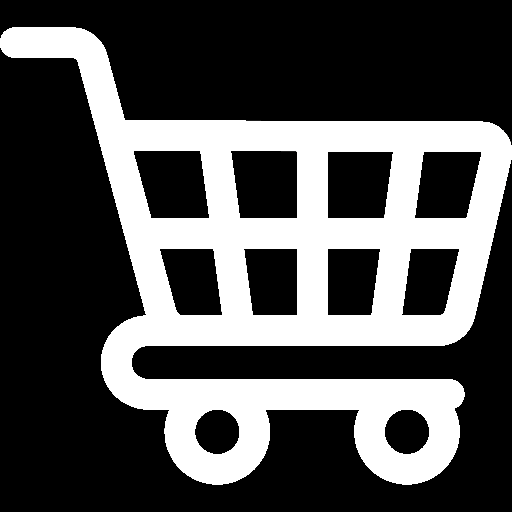
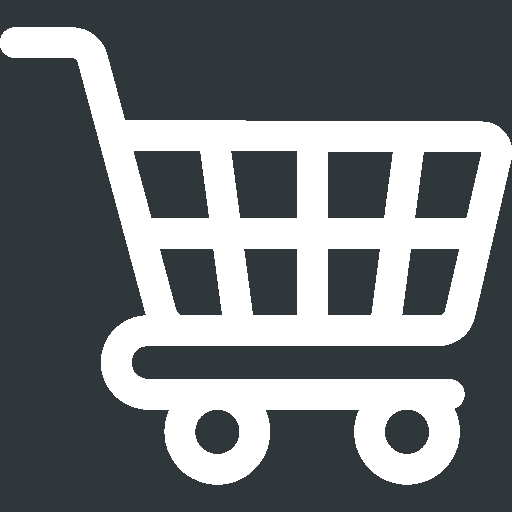
index terminado

diff --git a/cli/Unidad 8/ProyectoReactJGF/src/assets/App.css b/cli/Unidad 8/ProyectoReactJGF/src/assets/App.css
@@ -1,32 +1,37 @@
-@import url('https://fonts.googleapis.com/css2?family=Anta&display=swap');
+@import url('https://fonts.googleapis.com/css2?family=Poppins:ital,wght@0,100;0,200;0,300;0,400;0,500;0,600;0,700;0,800;0,900;1,100;1,200;1,300;1,400;1,500;1,600;1,700;1,800;1,900&display=swap');
 
 * {
-  font-family: "Anta", sans-serif;
+  font-family: 'Poppins';
   font-weight: 400;
   font-style: normal;
 }
 
 header {
   width: 100%;
-  background-color: black;
+  background-color: #2f373a;
 }
 
 header nav {
-  color: #efb810;
   font-size: 1.25rem;
   height: 5rem;
   display: flex;
   align-items: center;
 }
 
+header nav h2 {
+  font-weight: 700;
+  font-style: italic;
+}
+
 .logo {
   margin: 0 auto 0 1.563rem;
-  width: 5rem;
+  width: 20rem;
   padding: 0;
 }
 
 .logo img {
   width: 5rem;
+  margin-right: 1rem;
 }
 
 .carrito {
@@ -41,28 +46,38 @@ header nav {
 }
 
 .carrito img:hover{
-  background: linear-gradient(90deg, red, orange, yellow, green, blue, purple);
-  transition: 0.5s ease-in-out;
+  background-color: #4ce97d;
+  transition: 0.25s ease-in-out;
 }
 
 header nav a {
   height: 100%;
   width: 11rem;
   font-size: 1.25rem;
-  font-weight: 400;
+  font-weight: 700;
   text-decoration: none;
   color: white;
-  background: linear-gradient(90deg, red, orange, yellow, green, blue, purple);
-  background-clip: text;
-  -webkit-background-clip: text;
   display: flex;
   align-items: center;
   justify-content: center;
 }
 
-header nav a:hover {
-  color: transparent;
-  transition: 500ms ease;
+.azul:hover {
+  color: black;
+  background-color: #45e0fd;
+  transition: 0.5s ease;
+}
+
+.rojo:hover {
+  color: black;
+  background-color: #fc5769;
+  transition: 0.5s ease;
+}
+
+.amarillo:hover {
+  color: black;
+  background-color: #fed154;
+  transition: 0.5s ease;
 }
 
 .activo {
@@ -79,7 +94,7 @@ header nav a:hover {
 
 body {
   margin: 0;
-  background-color: #000000;
+  background-color: #2f373a;
   background-size: cover;
   background-repeat: no-repeat;
   background-attachment: fixed;
@@ -91,60 +106,92 @@ main {
   display: flex;
   flex-direction: column;
   margin: 0;
+  align-items: center;
+  background-color: #ffffff;
 }
 
-main div {
-  height: auto/* 47.5rem */;
-  background: linear-gradient(180deg, black, grey);
-  color: white;
+.cuerpo {
+  height: auto;
+  display: flex;
+  justify-content: center;
+  align-items: center;
 }
 
-main div h2 {
-  text-align: center;
-}
 
-main .banner {
+.banner {
   height: 100%;
-  background: linear-gradient(0deg, blue, purple);
-  color: white;
-  padding: 4rem;
+  width: 100%;
+  background-color: #fcb4bc;
+  color: black;
   display: flex;
   flex-direction: column;
   align-items: center;
 }
 
+.banner h1{
+  padding: 1rem 0 0 0;
+}
+
+.banner h3{
+  padding: 0 0 1rem 0;
+}
+
+.titulo {
+  width: 80%;
+  height: 100%;
+  color: black;
+  background-color: #faf0fe;
+  display: flexbox;
+  justify-content: center;
+  align-items: center;
+  margin: 3rem 0 3rem 0;
+  padding: 0 0 3rem 0;
+}
+
+.titulo h2 {
+  width: 100%;
+  padding: 1rem;
+  text-align: center;
+}
+
 .juegos {
-  background: transparent;
   display: flex;
   justify-content: center;
   align-items: center;
   height: auto;
+  margin: auto;
+  width: auto;
 }
 
 .producto {
   height: auto;
-  border: 0.128rem solid #ccc;
-  border-radius: 0.75rem;
   overflow: hidden;
-  width: 18.75rem;
-  margin: 2rem;
-  color: white;
+  margin: 1rem;
+  width: 12rem;
+  display: flex;
+  justify-content: center;
+  align-items: center;
+  flex-direction: column;
+  padding: 1rem 0 1rem 0;
+  transition: 0.1s ease-in-out;
 }
 
 .producto img {
-  width: 100%;
-  display: flex;
+  width: 80%;
+  margin: 0.5rem 0 0 0;
 }
 
 .producto .contenido {
-  padding: 0.625rem;
+  width: 100%;
   height: auto;
+  display: flex;
+  flex-direction: column;
+  align-items: center;
 }
 
 .producto h2 {
-  text-align: left;
-  margin-top: 0;
-  margin-bottom: 0.313rem;
+  padding: 0;
+  text-align: center;
 }
 
 .producto p {
@@ -152,31 +199,36 @@ main .banner {
 }
 
 .producto button {
-  color: white;
+  opacity: 0;
+  position: absolute;
   border: 0;
-  width: 100%;
+  width: 11rem;
   font-size: 1.25rem;
+  font-weight: 600;
   height: 3rem;
-  background-size: 300% 400%;
-  transition: all .4s ease-in-out;
-
-  background-image: linear-gradient(180deg, purple,     blue, cyan, pink);
+  background-color: #dc9cfb;
+  transition: .15s ease-in-out;
+  box-shadow: 0px 4px 8px rgba(0, 0, 0, 0.5);
+  border-radius: 0.5rem;
+  cursor: pointer;
 }
 
-.producto button:hover {
-  color: black;
-  background-position: 0% 100%;
-  transition: all .4s ease-in-out;
+.producto:hover {
+  background-color: #eed3fc;
 }
 
-.producto .precio {
-  font-weight: bold;
-  text-align: right;
+.producto:hover button {
+  opacity: 1;
+}
+
+button:hover {
+  box-shadow: 0px 4px 8px rgba(0, 0, 0, 1);
+  background-color: #faf0fe;
 }
 
 footer {
   width: 100%;
-  background-color: black;
+  background-color: #2f373a;
   min-height: 5rem;
   display: flex;
   justify-content: center;
@@ -192,19 +244,18 @@ footer ul, a {
   font-weight: 400;
   line-height: 1.2;
   color: white;
-  background: linear-gradient(90deg, red, orange, yellow, green, blue, purple);
-  background-clip: text;
   display: inline-block;
   list-style: none;
+  text-decoration: none;
 }
 
 footer ul li:first-child {
+  color: white;
   font-size: 0.9375rem;
-  font-weight: 100;
+  font-weight: 400;
   text-align: left;
 }
 
 footer ul a:hover {
-  color: transparent;
-  transition: 500ms ease;
+  transition: 0.5s ease;
 }

diff --git a/cli/Unidad 8/ProyectoReactJGF/src/components/Body.jsx b/cli/Unidad 8/ProyectoReactJGF/src/components/Body.jsx
@@ -1,4 +1,5 @@
 import juego1 from '../assets/juego1.jpg'
+import juego2 from '../assets/juego2.jpg'
 import '../assets/App.css'
 
 function Body() {
@@ -10,33 +11,46 @@ function Body() {
           <h1>¡Bienvenido a MemoGames!</h1>
           <h3>Tu tienda de videojuegos favorita</h3>
         </div>
-        <div>
+        <div className='titulo'>
           <h2>Algunos de nuestros juegos mas vendidos: </h2>
           <div className='juegos'>
             <div class="producto">
-              <img src={juego1} alt="Nombre del Producto"/>
+              <img src={juego1} alt="Jak&Daxter"/>
                 <div className="contenido">
-                  <h2>Jak & Daxter</h2>
-                  <p>Embarcate en una increible aventura con este dúo icónico de Playstation</p>
-                  <p className="precio">20.99€</p>
+                  <h3>Jak & Daxter</h3>
+                  <p className="precio">Desde tan solo <span>9.99€</span></p>
                 </div>
               <button>Añadir al carrito</button>
             </div>
             <div class="producto">
-              <img src={juego1} alt="Nombre del Producto"/>
+              <img src={juego2} alt="Project Zomboid"/>
                 <div className="contenido">
-                  <h2>Jak & Daxter</h2>
-                  <p>Embarcate en una increible aventura con este dúo icónico de Playstation</p>
-                  <p className="precio">20.99€</p>
+                  <h3>Project Zomboid</h3>
+                  <p className="precio">Desde tan solo <span>10.99€</span></p>
                 </div>
-                  <button>Añadir al carrito</button>
+                <button>Añadir al carrito</button>
             </div>
             <div class="producto">
               <img src={juego1} alt="Nombre del Producto"/>
                 <div className="contenido">
-                  <h2>Jak & Daxter</h2>
-                  <p>Embarcate en una increible aventura con este dúo icónico de Playstation</p>
-                  <p className="precio">20.99€</p>
+                  <h3>Jak & Daxter</h3>
+                  <p className="precio">Desde tan solo <span>20.99€</span></p>
+                </div>
+                <button>Añadir al carrito</button>
+            </div>
+            <div class="producto">
+              <img src={juego1} alt="Nombre del Producto"/>
+                <div className="contenido">
+                  <h3>Jak & Daxter</h3>
+                  <p className="precio">Desde tan solo <span>20.99 €</span></p>
+                </div>
+                <button>Añadir al carrito</button>
+            </div>
+            <div class="producto">
+              <img src={juego1} alt="Nombre del Producto"/>
+                <div className="contenido">
+                  <h3>Jak & Daxter</h3>
+                  <p className="precio">Desde tan solo <span>20.99€</span></p>
                 </div>
                 <button>Añadir al carrito</button>
             </div>

diff --git a/cli/Unidad 8/ProyectoReactJGF/src/components/Header.jsx b/cli/Unidad 8/ProyectoReactJGF/src/components/Header.jsx
@@ -1,6 +1,6 @@
-import logo from '../assets/logo.png'
-import carrito from '../assets/carrito.png'
-import '../assets/App.css'
+import logo from "../assets/logo.png"
+import carrito from "../assets/carrito.png"
+import "../assets/App.css"
 
 function Header() {
 
@@ -8,11 +8,11 @@ function Header() {
     <>
       <header>
         <nav>
-          <a className="logo"><img src={logo} alt="Logo Cabecera"/></a>
-          <a href="">Inicio</a>
-          <a href="">Tienda</a>
-          <a href="">Quienes somos</a>
-          <a href="" className='carrito'><img src={carrito} alt="Logo Carrito"/></a>
+          <a href="" className="logo"><img src={logo} alt="Logo Cabecera"/> <h2>MEMOGAMES</h2></a>
+          <a href="" className="azul">Inicio</a>
+          <a href="" className="rojo">Tienda</a>
+          <a href="" className="amarillo">Quienes somos</a>
+          <a href="" className="carrito"><img src={carrito} alt="Logo Carrito"/></a>
         </nav>
       </header>
     </>
